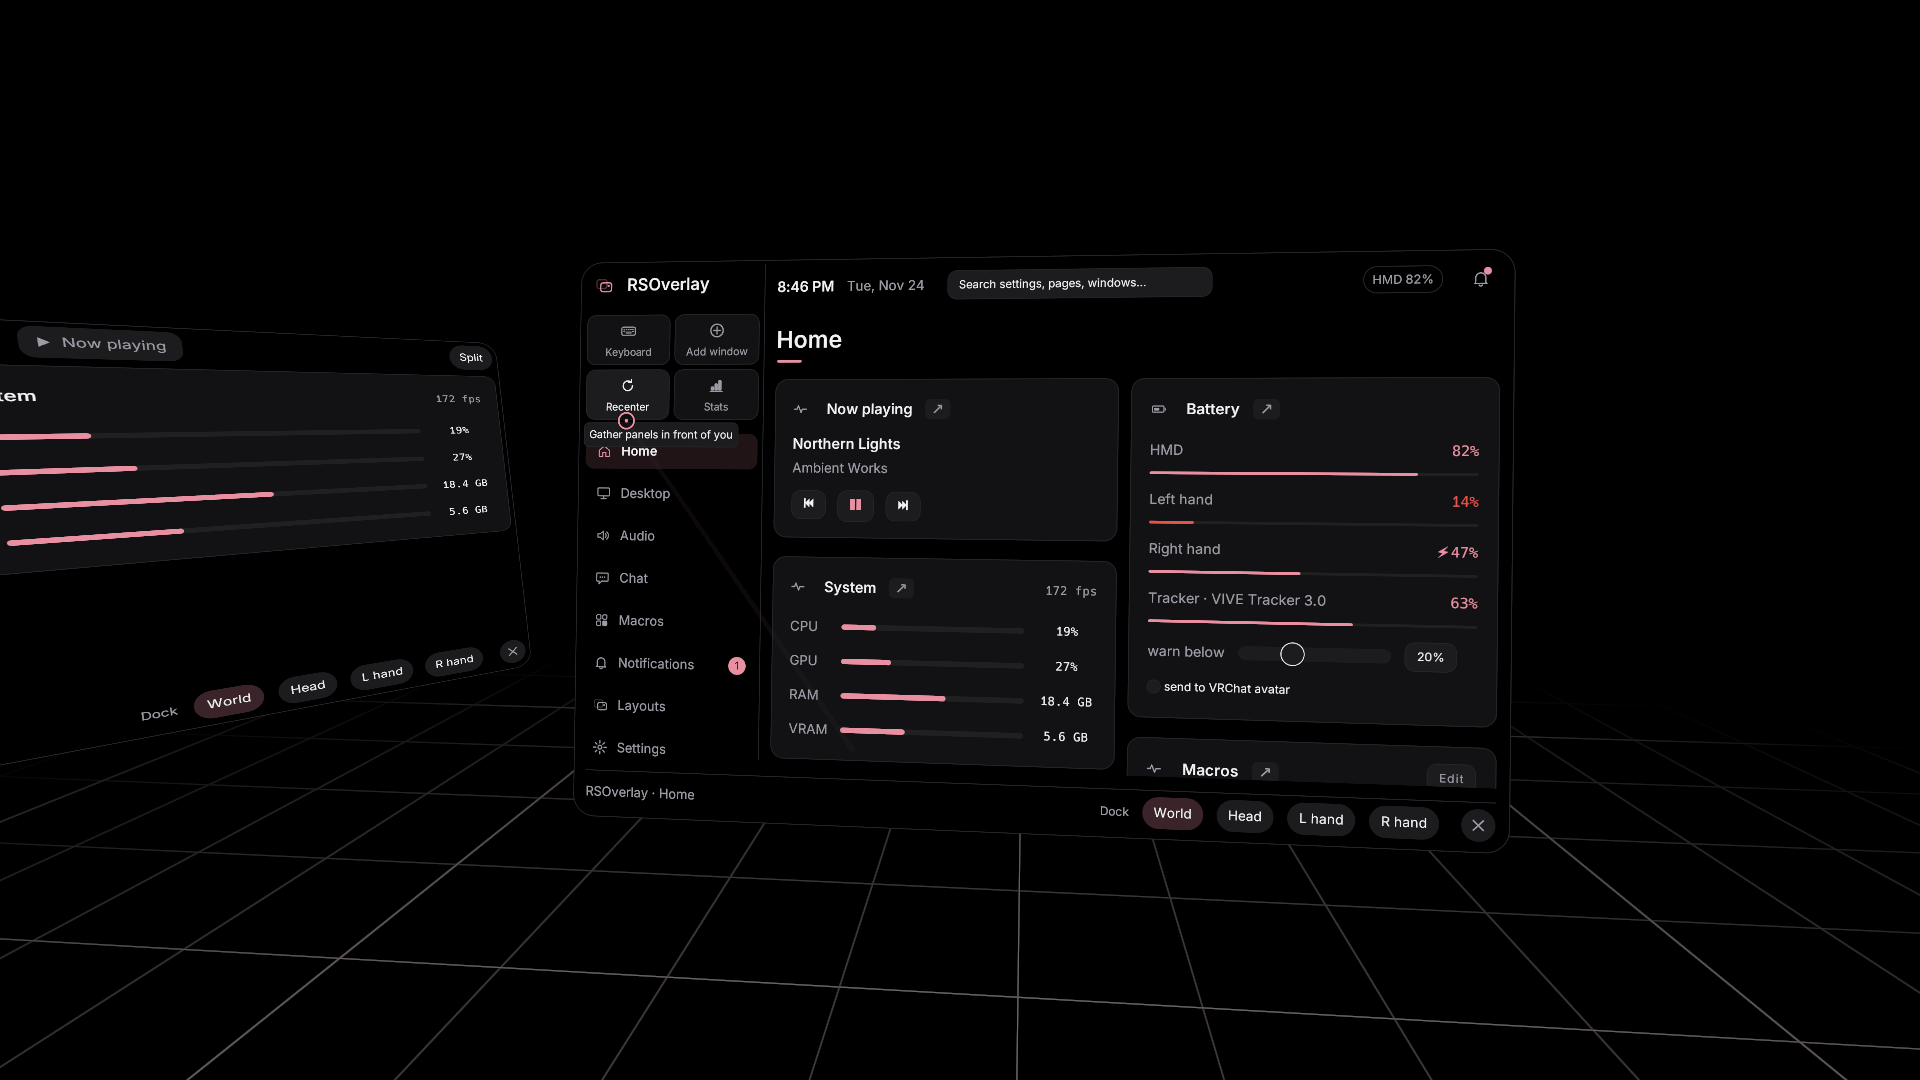
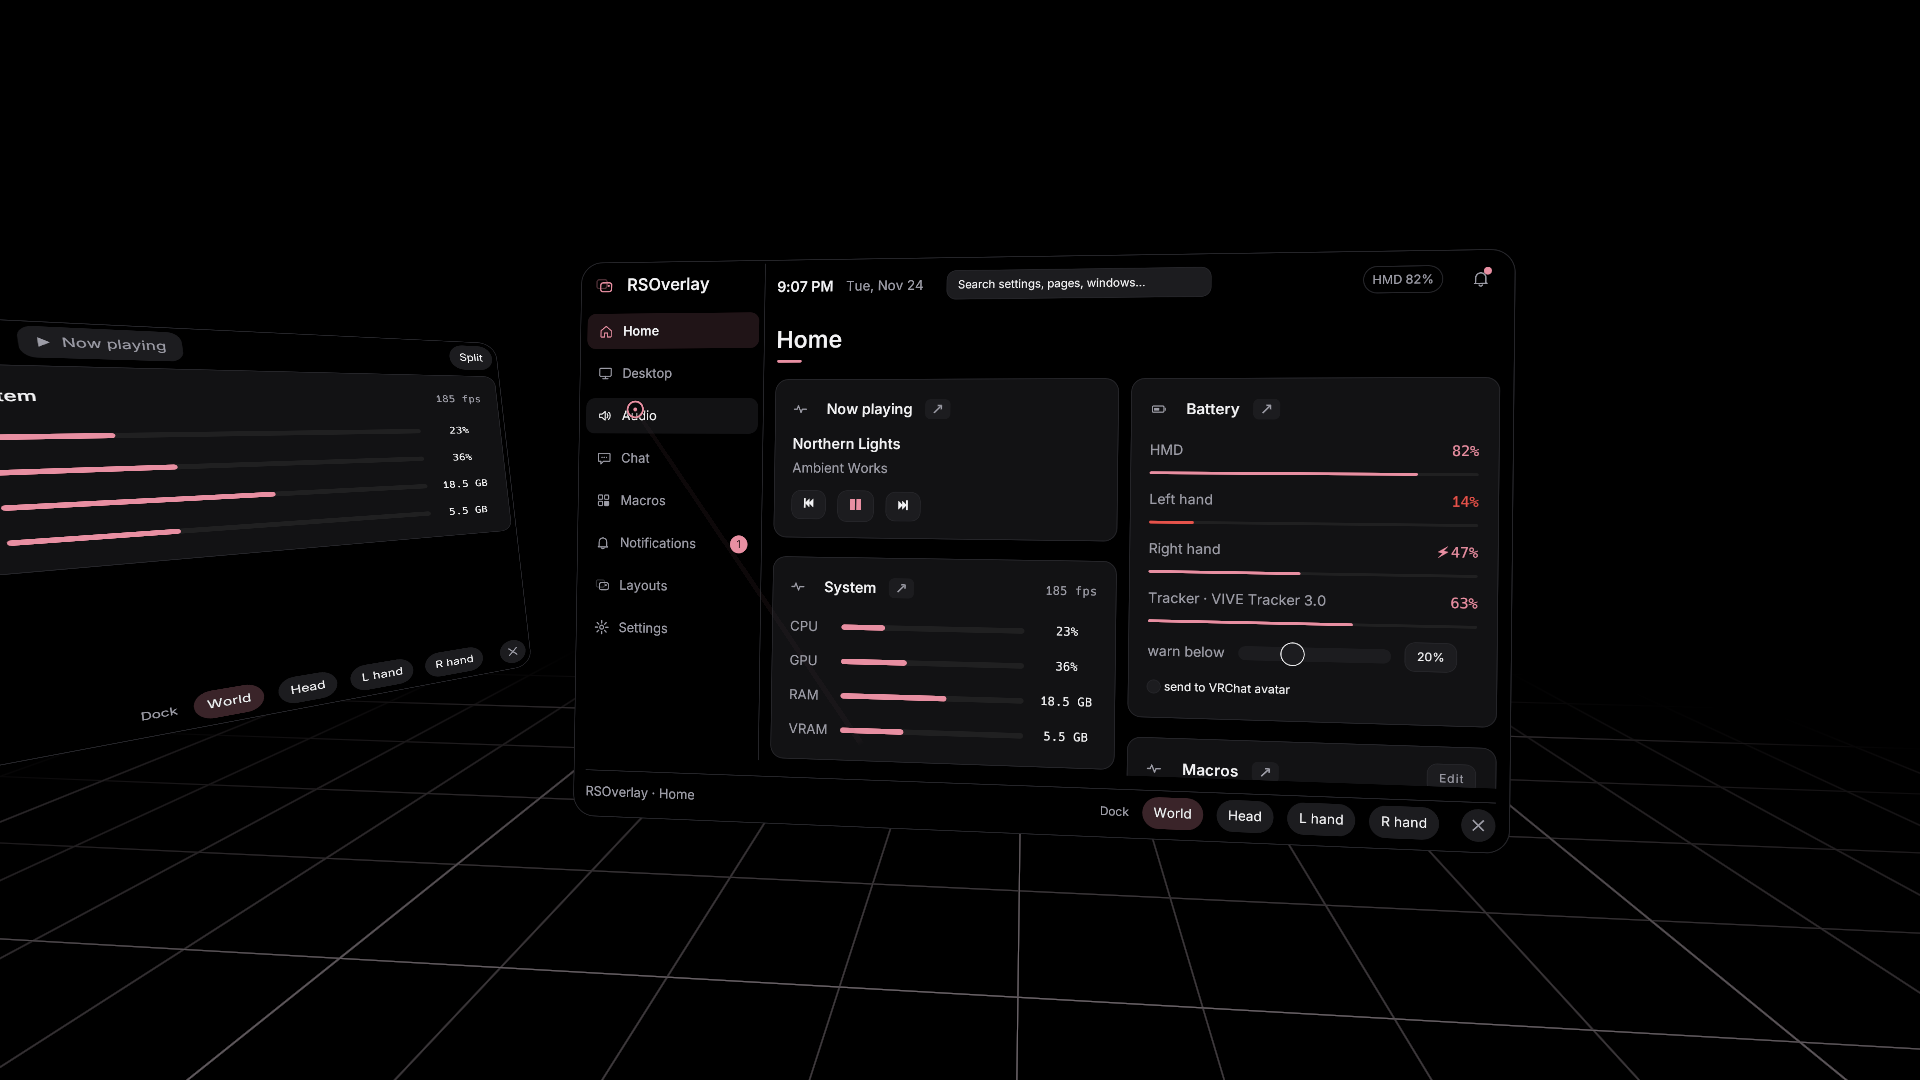
VR dashboard: drop the quick-action tiles the wrist already has (desktop keeps Keyboard + Add window); refresh store shots

diff --git a/crates/rsoverlay-ui/src/shell.rs b/crates/rsoverlay-ui/src/shell.rs
@@ -7,8 +7,8 @@
 //! ```text
 //! ┌────────────┬─────────────────────────────────────────┐
 //! │ ◈ RSOverlay│ 10:42 PM · Tue, Nov 24  [Search…]  82 🔔 │  header
-//! │ ⌨ Kbd ＋Add├─────────────────────────────────────────┤
-//! │ ↻ Rec ▮Stat│  Home                                   │  quick actions
+//! │ ⌨ Kbd ＋Add├─────────────────────────────────────────┤  quick actions
+//! │            │  Home                                   │  (desktop only)
 //! │            │  ──                                     │
 //! │ ⌂ Home     │                                         │
 //! │ ▭ Desktop  │        page content (scrolls)           │
@@ -104,16 +104,11 @@ impl Page {
 pub struct QuickActions {
     pub toggle_keyboard: bool,
     pub add_window: bool,
-    /// VR only: gather panels in front of you.
-    pub recenter: bool,
-    /// VR only: pop the performance widget out (or close it).
-    pub stats: bool,
 }
 
-/// Left sidebar: wordmark, the quick actions you reach for constantly
-/// (Keyboard, Add window, and in VR Recenter + Stats) as labelled
-/// tiles, then the labelled destinations. `badge` puts a count on
-/// Notifications.
+/// Left sidebar: wordmark, quick-action tiles (desktop only: in VR the
+/// wrist toolbar already carries Keyboard / Add / Recenter / Stats), then
+/// the labelled destinations. `badge` puts a count on Notifications.
 ///
 /// The selection highlight is one shape that *slides* to the active
 /// row: a placeholder is reserved in the paint list before the rows are
@@ -133,9 +128,15 @@ pub fn nav_rail(ui: &mut egui::Ui, page: &mut Page, badge: usize, keyboard_open:
         ui.add_space(2.0);
         ui.label(egui::RichText::new("RSOverlay").font(theme::display(19.0)).color(theme::FG_PRIMARY));
     });
-    ui.add_space(8.0);
-    let quick = quick_actions(ui, keyboard_open, vr, accent);
-    ui.add_space(10.0);
+    let quick = if vr {
+        ui.add_space(6.0);
+        QuickActions::default()
+    } else {
+        ui.add_space(8.0);
+        let q = quick_actions(ui, keyboard_open, accent);
+        ui.add_space(10.0);
+        q
+    };
     let slot = ui.painter().add(egui::Shape::Noop);
     let mut selected_rect = None;
     for p in Page::ALL {
@@ -158,16 +159,12 @@ pub fn nav_rail(ui: &mut egui::Ui, page: &mut Page, badge: usize, keyboard_open:
 }
 
 /// Two-column grid of labelled action tiles.
-fn quick_actions(ui: &mut egui::Ui, keyboard_open: bool, vr: bool, accent: egui::Color32) -> QuickActions {
+fn quick_actions(ui: &mut egui::Ui, keyboard_open: bool, accent: egui::Color32) -> QuickActions {
     let mut out = QuickActions::default();
-    let mut tiles: Vec<(egui::ImageSource<'static>, &str, &str, bool, u8)> = vec![
+    let tiles: [(egui::ImageSource<'static>, &str, &str, bool, u8); 2] = [
         (icons::KEYBOARD, "Keyboard", if keyboard_open { "Hide the keyboard" } else { "Show the keyboard" }, keyboard_open, 0),
         (icons::PLUS, "Add window", "Capture a window or monitor", false, 1),
     ];
-    if vr {
-        tiles.push((icons::RECENTER, "Recenter", "Gather panels in front of you", false, 2));
-        tiles.push((icons::CHART, "Stats", "Pop out performance stats", false, 3));
-    }
     const GAP: f32 = 6.0;
     let w = (ui.available_width() - GAP) / 2.0;
     for pair in tiles.chunks(2) {
@@ -188,9 +185,7 @@ fn quick_actions(ui: &mut egui::Ui, keyboard_open: bool, vr: bool, accent: egui:
                 if resp.on_hover_cursor(egui::CursorIcon::PointingHand).clicked() {
                     match id {
                         0 => out.toggle_keyboard = true,
-                        1 => out.add_window = true,
-                        2 => out.recenter = true,
-                        _ => out.stats = true,
+                        _ => out.add_window = true,
                     }
                 }
             }

diff --git a/crates/rsoverlay-ui/src/views.rs b/crates/rsoverlay-ui/src/views.rs
@@ -208,9 +208,6 @@ pub struct DevView {
     pub show_media: bool,
     pub show_chat: bool,
     pub show_keyboard: bool,
-    /// Dashboard quick actions the VR shell carries out (recenter,
-    /// stats pop-out), taken once per frame like a wrist action.
-    pub dash_action: crate::wrist::WristAction,
     /// VR dashboard docking, shown in its bottom bar like every other
     /// floating panel; the VR shell owns the pose and reports back here.
     pub dash_attach: crate::window_panel::Attach,
@@ -325,7 +322,6 @@ impl Default for DevView {
             show_media: true,
             show_chat: true,
             show_keyboard: false,
-            dash_action: Default::default(),
             dash_attach: crate::window_panel::Attach::World,
             dash_dock: None,
             dash_close: false,
@@ -805,9 +801,6 @@ impl DevView {
                 if q.add_window {
                     self.page = crate::shell::Page::Desktop;
                 }
-                // VR-side actions ride the wrist's action path.
-                self.dash_action.recenter |= q.recenter;
-                self.dash_action.popout_stats |= q.stats;
             });
         egui::TopBottomPanel::top("header")
             .frame(root.inner_margin(egui::Margin { left: 20.0, right: 20.0, top: 14.0, bottom: 10.0 }))

diff --git a/tools/make-overview.py b/tools/make-overview.py
@@ -11,7 +11,7 @@ OUT = sys.argv[1] if len(sys.argv) > 1 else 'docs/store/overview.png'
 WRIST_CROP = (400, 400, 1520, 1030)  # 16:9 around the wrist
 SHOTS = [
     ('vr-work', 'Working in VR', 'editor, notes and terminal around you · stats · keyboard', None),
-    ('vr-dashboard', 'Dashboard', 'labelled sidebar · quick actions · pop-out widgets', None),
+    ('vr-dashboard', 'Dashboard', 'labelled sidebar · search · pop-out widgets', None),
     ('vr-social', 'Social VR', 'chatbox + keyboard · notifications · now playing', None),
     ('vr-gaming', 'In game', 'guide pinned aside · media and battery widgets · wrist', None),
     ('vr-wrist-compact', 'Wrist toolbar', 'compact by default: the everyday four + More', WRIST_CROP),

diff --git a/crates/rsoverlay-app/src/vr.rs b/crates/rsoverlay-app/src/vr.rs
@@ -1126,10 +1126,6 @@ mod imp {
                     laser::paint_cursor(ctx, cursor, accent);
                 });
             }
-            // Dashboard quick actions (recenter, stats) share this path.
-            let quick = std::mem::take(&mut dev_view.dash_action);
-            act.recenter |= quick.recenter;
-            act.popout_stats |= quick.popout_stats;
             toggle_dash |= act.toggle_dashboard;
             if act.toggle_keyboard {
                 dev_view.show_keyboard = !dev_view.show_keyboard;

diff --git a/crates/rsoverlay-app/src/preview_vr.rs b/crates/rsoverlay-app/src/preview_vr.rs
@@ -196,7 +196,7 @@ impl Preset {
             ],
             Self::Dashboard => vec![
                 widget(vec![WidgetKind::System, WidgetKind::NowPlaying], -46.0, 0.75, 1.52),
-                dash(Page::Home, 0.0, 0.72, 1.48, Some((0.06, 0.29))),
+                dash(Page::Home, 0.0, 0.72, 1.48, Some((0.07, 0.27))),
                 wrist(false, Vec3::new(-0.27, 1.07, -0.33), None),
             ],
             Self::WristCompact => vec![wrist(false, Vec3::new(-0.15, 1.30, -0.30), Some((0.90, 0.07)))],

diff --git a/README.md b/README.md
@@ -60,8 +60,8 @@ time live, so you can check the claim yourself.
 - Every button is labelled; tooltips name the rest
 
 **Dashboard**
-- Labelled sidebar with quick actions (Keyboard, Add window, Recenter,
-  Stats); global search across settings, pages and windows
+- Labelled sidebar; global search across settings, pages and windows
+  (everyday actions live on the wrist, not duplicated here)
 - Pop any card out as a floating widget; drop widgets onto each other to
   merge them into tabs, split them back out
 
